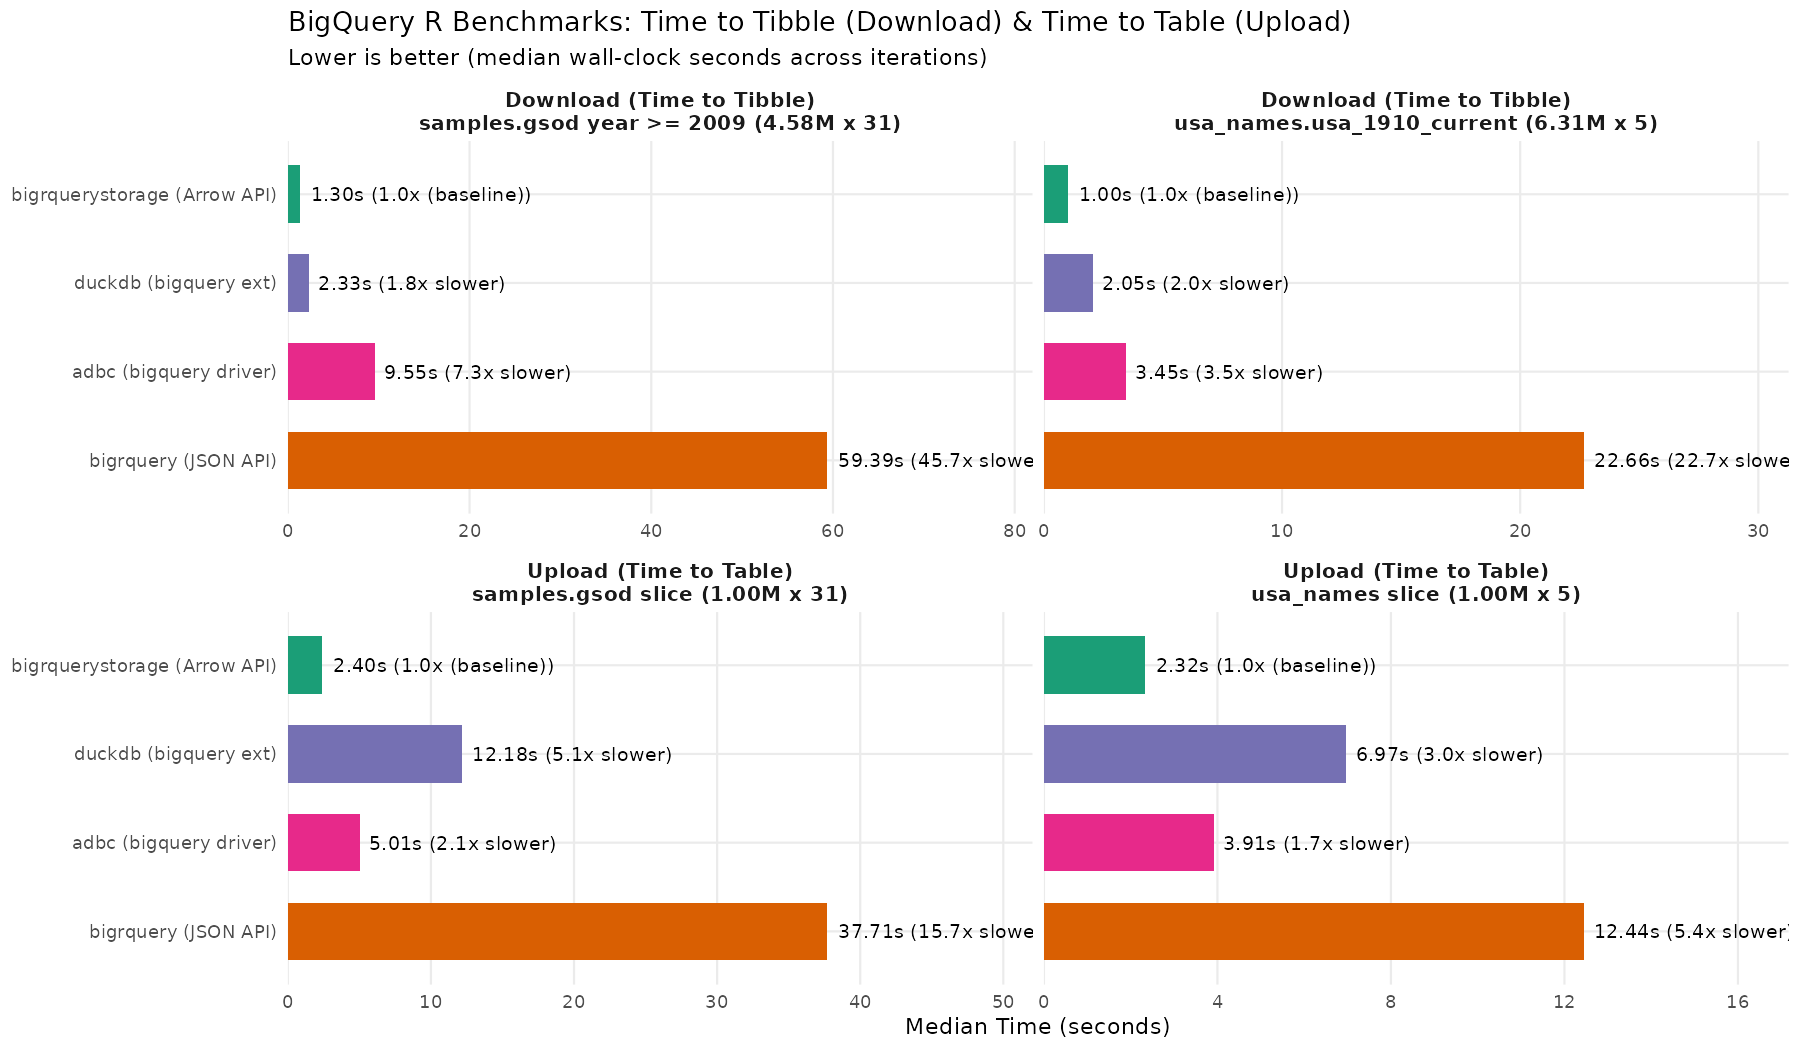
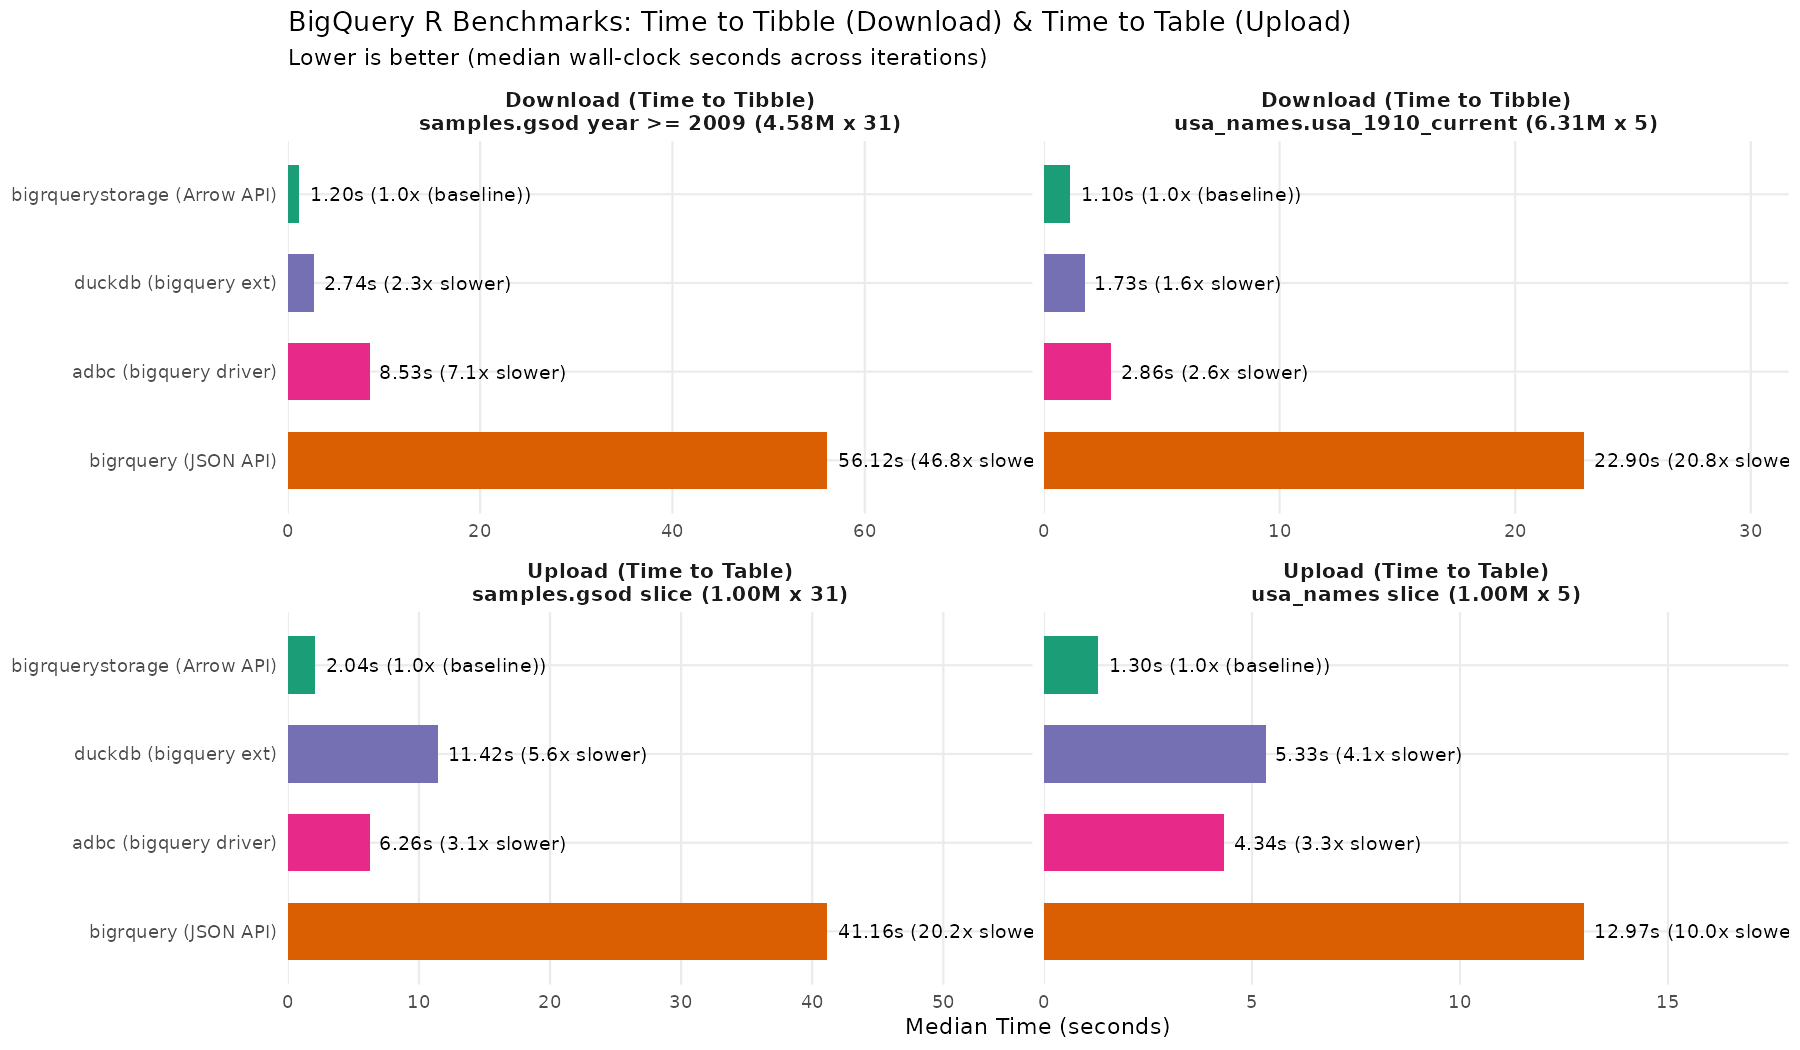
chore(bench): rerun benchmarks against latest main (c31e666) and refresh README

diff --git a/scripts/benchmark_bigrquerystorage_readme.md b/scripts/benchmark_bigrquerystorage_readme.md
@@ -1,6 +1,6 @@
 ### Performance (`bigrquerystorage` Arrow API vs `bigrquery` JSON, `duckdb`, and `adbc`)
 
-In R benchmarks on BigQuery public datasets, **`bigrquerystorage`** (`bigrquery` with `api = "arrow"`) is **23X to 46X times faster** on download (*Time to Tibble*) and **5X to 16X times faster** on upload (*Time to Table*) than `bigrquery` without the Arrow API (`api = "json"`), while performing **1.8X to 2.0X times faster** on download (and **3.0X to 5.1X times faster** on upload) than `duckdb` (`bigquery` extension), and **3.5X to 7.3X times faster** on download (and **1.7X to 2.1X times faster** on upload) than the `adbc` BigQuery driver.
+In R benchmarks on BigQuery public datasets, **`bigrquerystorage`** (`bigrquery` with `api = "arrow"`) is **21X to 47X times faster** on download (*Time to Tibble*) and **10X to 20X times faster** on upload (*Time to Table*) than `bigrquery` without the Arrow API (`api = "json"`), while performing **1.6X to 2.3X times faster** on download (and **4.1X to 5.6X times faster** on upload) than `duckdb` (`bigquery` extension), and **2.6X to 7.1X times faster** on download (and **3.1X to 3.3X times faster** on upload) than the `adbc` BigQuery driver.
 
 ![BigQuery R Benchmarks: Time to Tibble (Download) & Time to Table (Upload)](man/figures/benchmark_bigrquerystorage.png)
 
@@ -8,27 +8,27 @@ In R benchmarks on BigQuery public datasets, **`bigrquerystorage`** (`bigrquery`
 
 | Dataset | Dimensions (In-Memory) | Method | Median TTT (s) | Transfer Speed (MB/s) | Throughput (M rows/s) | vs `bigrquery` (JSON) | vs `bigrquerystorage` (Arrow) |
 |:---|:---|:---|---:|---:|---:|---:|:---|
-| `samples.gsod` `year >= 2009` (4.58M x 31) | 4.58M x 31 (752 MB) | **bigrquerystorage (Arrow API)** | 1.30 s | 577.3 MB/s | 3.52 M/s | **45.7X faster** | 1.0x (baseline) |
-| `samples.gsod` `year >= 2009` (4.58M x 31) | 4.58M x 31 (752 MB) | **duckdb (bigquery ext)** | 2.33 s | 322.9 MB/s | 1.97 M/s | **25.5X faster** | 1.8x slower |
-| `samples.gsod` `year >= 2009` (4.58M x 31) | 4.58M x 31 (752 MB) | **adbc (bigquery driver)** | 9.55 s | 78.7 MB/s | 0.48 M/s | **6.2X faster** | 7.3x slower |
-| `samples.gsod` `year >= 2009` (4.58M x 31) | 4.58M x 31 (752 MB) | **bigrquery (JSON API)** | 59.39 s | 12.7 MB/s | 0.08 M/s | 1.0x (baseline) | 45.7x slower |
-| `usa_names.usa_1910_current` (6.31M x 5) | 6.31M x 5 (194 MB) | **bigrquerystorage (Arrow API)** | 1.00 s | 194.8 MB/s | 6.32 M/s | **22.7X faster** | 1.0x (baseline) |
-| `usa_names.usa_1910_current` (6.31M x 5) | 6.31M x 5 (194 MB) | **duckdb (bigquery ext)** | 2.05 s | 94.9 MB/s | 3.08 M/s | **11.1X faster** | 2.0x slower |
-| `usa_names.usa_1910_current` (6.31M x 5) | 6.31M x 5 (194 MB) | **adbc (bigquery driver)** | 3.45 s | 56.3 MB/s | 1.83 M/s | **6.6X faster** | 3.5x slower |
-| `usa_names.usa_1910_current` (6.31M x 5) | 6.31M x 5 (194 MB) | **bigrquery (JSON API)** | 22.66 s | 8.6 MB/s | 0.28 M/s | 1.0x (baseline) | 22.7x slower |
+| `samples.gsod` `year >= 2009` (4.58M x 31) | 4.58M x 31 (752 MB) | **bigrquerystorage (Arrow API)** | 1.20 s | 624.8 MB/s | 3.81 M/s | **46.8X faster** | 1.0x (baseline) |
+| `samples.gsod` `year >= 2009` (4.58M x 31) | 4.58M x 31 (752 MB) | **duckdb (bigquery ext)** | 2.74 s | 274.3 MB/s | 1.67 M/s | **20.5X faster** | 2.3x slower |
+| `samples.gsod` `year >= 2009` (4.58M x 31) | 4.58M x 31 (752 MB) | **adbc (bigquery driver)** | 8.53 s | 88.1 MB/s | 0.54 M/s | **6.6X faster** | 7.1x slower |
+| `samples.gsod` `year >= 2009` (4.58M x 31) | 4.58M x 31 (752 MB) | **bigrquery (JSON API)** | 56.12 s | 13.4 MB/s | 0.08 M/s | 1.0x (baseline) | 46.8x slower |
+| `usa_names.usa_1910_current` (6.31M x 5) | 6.31M x 5 (194 MB) | **bigrquerystorage (Arrow API)** | 1.10 s | 176.4 MB/s | 5.73 M/s | **20.8X faster** | 1.0x (baseline) |
+| `usa_names.usa_1910_current` (6.31M x 5) | 6.31M x 5 (194 MB) | **duckdb (bigquery ext)** | 1.73 s | 112.6 MB/s | 3.66 M/s | **13.2X faster** | 1.6x slower |
+| `usa_names.usa_1910_current` (6.31M x 5) | 6.31M x 5 (194 MB) | **adbc (bigquery driver)** | 2.86 s | 67.9 MB/s | 2.20 M/s | **8.0X faster** | 2.6x slower |
+| `usa_names.usa_1910_current` (6.31M x 5) | 6.31M x 5 (194 MB) | **bigrquery (JSON API)** | 22.90 s | 8.5 MB/s | 0.28 M/s | 1.0x (baseline) | 20.8x slower |
 
 #### Upload Benchmark — Time to Table (TTT)
 
 | Dataset | Dimensions (In-Memory) | Method | Median TTT (s) | Transfer Speed (MB/s) | Throughput (M rows/s) | vs `bigrquery` (JSON) | vs `bigrquerystorage` (Arrow) |
 |:---|:---|:---|---:|---:|---:|---:|:---|
-| `samples.gsod` slice (1.00M x 31) | 1.00M x 31 (164 MB) | **bigrquerystorage (Arrow API)** | 2.40 s | 68.4 MB/s | 0.42 M/s | **15.7X faster** | 1.0x (baseline) |
-| `samples.gsod` slice (1.00M x 31) | 1.00M x 31 (164 MB) | **duckdb (bigquery ext)** | 12.18 s | 13.5 MB/s | 0.08 M/s | **3.1X faster** | 5.1x slower |
-| `samples.gsod` slice (1.00M x 31) | 1.00M x 31 (164 MB) | **adbc (bigquery driver)** | 5.01 s | 32.7 MB/s | 0.20 M/s | **7.5X faster** | 2.1x slower |
-| `samples.gsod` slice (1.00M x 31) | 1.00M x 31 (164 MB) | **bigrquery (JSON API)** | 37.71 s | 4.3 MB/s | 0.03 M/s | 1.0x (baseline) | 15.7x slower |
-| `usa_names` slice (1.00M x 5) | 1.00M x 5 (32 MB) | **bigrquerystorage (Arrow API)** | 2.32 s | 13.7 MB/s | 0.43 M/s | **5.4X faster** | 1.0x (baseline) |
-| `usa_names` slice (1.00M x 5) | 1.00M x 5 (32 MB) | **duckdb (bigquery ext)** | 6.97 s | 4.6 MB/s | 0.14 M/s | **1.8X faster** | 3.0x slower |
-| `usa_names` slice (1.00M x 5) | 1.00M x 5 (32 MB) | **adbc (bigquery driver)** | 3.91 s | 8.1 MB/s | 0.26 M/s | **3.2X faster** | 1.7x slower |
-| `usa_names` slice (1.00M x 5) | 1.00M x 5 (32 MB) | **bigrquery (JSON API)** | 12.44 s | 2.5 MB/s | 0.08 M/s | 1.0x (baseline) | 5.4x slower |
+| `samples.gsod` slice (1.00M x 31) | 1.00M x 31 (164 MB) | **bigrquerystorage (Arrow API)** | 2.04 s | 80.6 MB/s | 0.49 M/s | **20.2X faster** | 1.0x (baseline) |
+| `samples.gsod` slice (1.00M x 31) | 1.00M x 31 (164 MB) | **duckdb (bigquery ext)** | 11.42 s | 14.4 MB/s | 0.09 M/s | **3.6X faster** | 5.6x slower |
+| `samples.gsod` slice (1.00M x 31) | 1.00M x 31 (164 MB) | **adbc (bigquery driver)** | 6.26 s | 26.2 MB/s | 0.16 M/s | **6.6X faster** | 3.1x slower |
+| `samples.gsod` slice (1.00M x 31) | 1.00M x 31 (164 MB) | **bigrquery (JSON API)** | 41.16 s | 4.0 MB/s | 0.02 M/s | 1.0x (baseline) | 20.2x slower |
+| `usa_names` slice (1.00M x 5) | 1.00M x 5 (32 MB) | **bigrquerystorage (Arrow API)** | 1.30 s | 24.3 MB/s | 0.77 M/s | **10.0X faster** | 1.0x (baseline) |
+| `usa_names` slice (1.00M x 5) | 1.00M x 5 (32 MB) | **duckdb (bigquery ext)** | 5.33 s | 5.9 MB/s | 0.19 M/s | **2.4X faster** | 4.1x slower |
+| `usa_names` slice (1.00M x 5) | 1.00M x 5 (32 MB) | **adbc (bigquery driver)** | 4.34 s | 7.3 MB/s | 0.23 M/s | **3.0X faster** | 3.3x slower |
+| `usa_names` slice (1.00M x 5) | 1.00M x 5 (32 MB) | **bigrquery (JSON API)** | 12.97 s | 2.4 MB/s | 0.08 M/s | 1.0x (baseline) | 10.0x slower |
 
 *Benchmarks executed in R (R version 4.6.0 (2026-04-24)) over 3 iterations per workload using `r-dbi/bigrquery#695` (`api = "arrow"` vs `api = "json"`), `duckdb` (`bigquery` extension), and `adbcdrivermanager` (`bigquery` driver); see [`scripts/benchmark_bigrquerystorage.R`](https://github.com/meztez/bigrquerystorage/blob/main/scripts/benchmark_bigrquerystorage.R).*
 

diff --git a/README.md b/README.md
@@ -33,13 +33,13 @@ quotas.
 ### Performance (`bigrquerystorage` Arrow API vs `bigrquery` JSON, `duckdb`, and `adbc`)
 
 In R benchmarks on BigQuery public datasets, **`bigrquerystorage`**
-(`bigrquery` with `api = "arrow"`) is **23X to 46X times faster** on
-download (*Time to Tibble*) and **5X to 16X times faster** on upload
+(`bigrquery` with `api = "arrow"`) is **21X to 47X times faster** on
+download (*Time to Tibble*) and **10X to 20X times faster** on upload
 (*Time to Table*) than `bigrquery` without the Arrow API
-(`api = "json"`), while performing **1.8X to 2.0X times faster** on
-download (and **3.0X to 5.1X times faster** on upload) than `duckdb`
-(`bigquery` extension), and **3.5X to 7.3X times faster** on download
-(and **1.7X to 2.1X times faster** on upload) than the `adbc` BigQuery
+(`api = "json"`), while performing **1.6X to 2.3X times faster** on
+download (and **4.1X to 5.6X times faster** on upload) than `duckdb`
+(`bigquery` extension), and **2.6X to 7.1X times faster** on download
+(and **3.1X to 3.3X times faster** on upload) than the `adbc` BigQuery
 driver.
 
 <img src="man/figures/benchmark_bigrquerystorage.png" alt="BigQuery R Benchmarks: Time to Tibble (Download) and Time to Table (Upload)" width="100%" />
@@ -48,30 +48,30 @@ driver.
 
 | Dataset | Dimensions (In-Memory) | Method | Median TTT (s) | Transfer Speed (MB/s) | Throughput (M rows/s) | vs `bigrquery` (JSON) | vs `bigrquerystorage` (Arrow) |
 |:---|:---|:---|---:|---:|---:|---:|:---|
-| `samples.gsod` `year >= 2009` (4.58M x 31) | 4.58M x 31 (752 MB) | **bigrquerystorage (Arrow API)** | 1.30 s | 577.3 MB/s | 3.52 M/s | **45.7X faster** | 1.0x (baseline) |
-| `samples.gsod` `year >= 2009` (4.58M x 31) | 4.58M x 31 (752 MB) | **duckdb (bigquery ext)** | 2.33 s | 322.9 MB/s | 1.97 M/s | **25.5X faster** | 1.8x slower |
-| `samples.gsod` `year >= 2009` (4.58M x 31) | 4.58M x 31 (752 MB) | **adbc (bigquery driver)** | 9.55 s | 78.7 MB/s | 0.48 M/s | **6.2X faster** | 7.3x slower |
-| `samples.gsod` `year >= 2009` (4.58M x 31) | 4.58M x 31 (752 MB) | **bigrquery (JSON API)** | 59.39 s | 12.7 MB/s | 0.08 M/s | 1.0x (baseline) | 45.7x slower |
-| `usa_names.usa_1910_current` (6.31M x 5) | 6.31M x 5 (194 MB) | **bigrquerystorage (Arrow API)** | 1.00 s | 194.8 MB/s | 6.32 M/s | **22.7X faster** | 1.0x (baseline) |
-| `usa_names.usa_1910_current` (6.31M x 5) | 6.31M x 5 (194 MB) | **duckdb (bigquery ext)** | 2.05 s | 94.9 MB/s | 3.08 M/s | **11.1X faster** | 2.0x slower |
-| `usa_names.usa_1910_current` (6.31M x 5) | 6.31M x 5 (194 MB) | **adbc (bigquery driver)** | 3.45 s | 56.3 MB/s | 1.83 M/s | **6.6X faster** | 3.5x slower |
-| `usa_names.usa_1910_current` (6.31M x 5) | 6.31M x 5 (194 MB) | **bigrquery (JSON API)** | 22.66 s | 8.6 MB/s | 0.28 M/s | 1.0x (baseline) | 22.7x slower |
+| `samples.gsod` `year >= 2009` (4.58M x 31) | 4.58M x 31 (752 MB) | **bigrquerystorage (Arrow API)** | 1.20 s | 624.8 MB/s | 3.81 M/s | **46.8X faster** | 1.0x (baseline) |
+| `samples.gsod` `year >= 2009` (4.58M x 31) | 4.58M x 31 (752 MB) | **duckdb (bigquery ext)** | 2.74 s | 274.3 MB/s | 1.67 M/s | **20.5X faster** | 2.3x slower |
+| `samples.gsod` `year >= 2009` (4.58M x 31) | 4.58M x 31 (752 MB) | **adbc (bigquery driver)** | 8.53 s | 88.1 MB/s | 0.54 M/s | **6.6X faster** | 7.1x slower |
+| `samples.gsod` `year >= 2009` (4.58M x 31) | 4.58M x 31 (752 MB) | **bigrquery (JSON API)** | 56.12 s | 13.4 MB/s | 0.08 M/s | 1.0x (baseline) | 46.8x slower |
+| `usa_names.usa_1910_current` (6.31M x 5) | 6.31M x 5 (194 MB) | **bigrquerystorage (Arrow API)** | 1.10 s | 176.4 MB/s | 5.73 M/s | **20.8X faster** | 1.0x (baseline) |
+| `usa_names.usa_1910_current` (6.31M x 5) | 6.31M x 5 (194 MB) | **duckdb (bigquery ext)** | 1.73 s | 112.6 MB/s | 3.66 M/s | **13.2X faster** | 1.6x slower |
+| `usa_names.usa_1910_current` (6.31M x 5) | 6.31M x 5 (194 MB) | **adbc (bigquery driver)** | 2.86 s | 67.9 MB/s | 2.20 M/s | **8.0X faster** | 2.6x slower |
+| `usa_names.usa_1910_current` (6.31M x 5) | 6.31M x 5 (194 MB) | **bigrquery (JSON API)** | 22.90 s | 8.5 MB/s | 0.28 M/s | 1.0x (baseline) | 20.8x slower |
 
 #### Upload Benchmark — Time to Table (TTT)
 
 | Dataset | Dimensions (In-Memory) | Method | Median TTT (s) | Transfer Speed (MB/s) | Throughput (M rows/s) | vs `bigrquery` (JSON) | vs `bigrquerystorage` (Arrow) |
 |:---|:---|:---|---:|---:|---:|---:|:---|
-| `samples.gsod` slice (1.00M x 31) | 1.00M x 31 (164 MB) | **bigrquerystorage (Arrow API)** | 2.40 s | 68.4 MB/s | 0.42 M/s | **15.7X faster** | 1.0x (baseline) |
-| `samples.gsod` slice (1.00M x 31) | 1.00M x 31 (164 MB) | **duckdb (bigquery ext)** | 12.18 s | 13.5 MB/s | 0.08 M/s | **3.1X faster** | 5.1x slower |
-| `samples.gsod` slice (1.00M x 31) | 1.00M x 31 (164 MB) | **adbc (bigquery driver)** | 5.01 s | 32.7 MB/s | 0.20 M/s | **7.5X faster** | 2.1x slower |
-| `samples.gsod` slice (1.00M x 31) | 1.00M x 31 (164 MB) | **bigrquery (JSON API)** | 37.71 s | 4.3 MB/s | 0.03 M/s | 1.0x (baseline) | 15.7x slower |
-| `usa_names` slice (1.00M x 5) | 1.00M x 5 (32 MB) | **bigrquerystorage (Arrow API)** | 2.32 s | 13.7 MB/s | 0.43 M/s | **5.4X faster** | 1.0x (baseline) |
-| `usa_names` slice (1.00M x 5) | 1.00M x 5 (32 MB) | **duckdb (bigquery ext)** | 6.97 s | 4.6 MB/s | 0.14 M/s | **1.8X faster** | 3.0x slower |
-| `usa_names` slice (1.00M x 5) | 1.00M x 5 (32 MB) | **adbc (bigquery driver)** | 3.91 s | 8.1 MB/s | 0.26 M/s | **3.2X faster** | 1.7x slower |
-| `usa_names` slice (1.00M x 5) | 1.00M x 5 (32 MB) | **bigrquery (JSON API)** | 12.44 s | 2.5 MB/s | 0.08 M/s | 1.0x (baseline) | 5.4x slower |
+| `samples.gsod` slice (1.00M x 31) | 1.00M x 31 (164 MB) | **bigrquerystorage (Arrow API)** | 2.04 s | 80.6 MB/s | 0.49 M/s | **20.2X faster** | 1.0x (baseline) |
+| `samples.gsod` slice (1.00M x 31) | 1.00M x 31 (164 MB) | **duckdb (bigquery ext)** | 11.42 s | 14.4 MB/s | 0.09 M/s | **3.6X faster** | 5.6x slower |
+| `samples.gsod` slice (1.00M x 31) | 1.00M x 31 (164 MB) | **adbc (bigquery driver)** | 6.26 s | 26.2 MB/s | 0.16 M/s | **6.6X faster** | 3.1x slower |
+| `samples.gsod` slice (1.00M x 31) | 1.00M x 31 (164 MB) | **bigrquery (JSON API)** | 41.16 s | 4.0 MB/s | 0.02 M/s | 1.0x (baseline) | 20.2x slower |
+| `usa_names` slice (1.00M x 5) | 1.00M x 5 (32 MB) | **bigrquerystorage (Arrow API)** | 1.30 s | 24.3 MB/s | 0.77 M/s | **10.0X faster** | 1.0x (baseline) |
+| `usa_names` slice (1.00M x 5) | 1.00M x 5 (32 MB) | **duckdb (bigquery ext)** | 5.33 s | 5.9 MB/s | 0.19 M/s | **2.4X faster** | 4.1x slower |
+| `usa_names` slice (1.00M x 5) | 1.00M x 5 (32 MB) | **adbc (bigquery driver)** | 4.34 s | 7.3 MB/s | 0.23 M/s | **3.0X faster** | 3.3x slower |
+| `usa_names` slice (1.00M x 5) | 1.00M x 5 (32 MB) | **bigrquery (JSON API)** | 12.97 s | 2.4 MB/s | 0.08 M/s | 1.0x (baseline) | 10.0x slower |
 
-*Benchmarks executed in R (R version 4.6.0) over 3 iterations per
-workload using `r-dbi/bigrquery#695` (`api = "arrow"` vs
+*Benchmarks executed in R (R version 4.6.0 (2026-04-24)) over 3
+iterations per workload using `r-dbi/bigrquery#695` (`api = "arrow"` vs
 `api = "json"`), `duckdb` (`bigquery` extension), and
 `adbcdrivermanager` (`bigquery` driver); see
 [`scripts/benchmark_bigrquerystorage.R`](https://github.com/meztez/bigrquerystorage/blob/main/scripts/benchmark_bigrquerystorage.R).*
